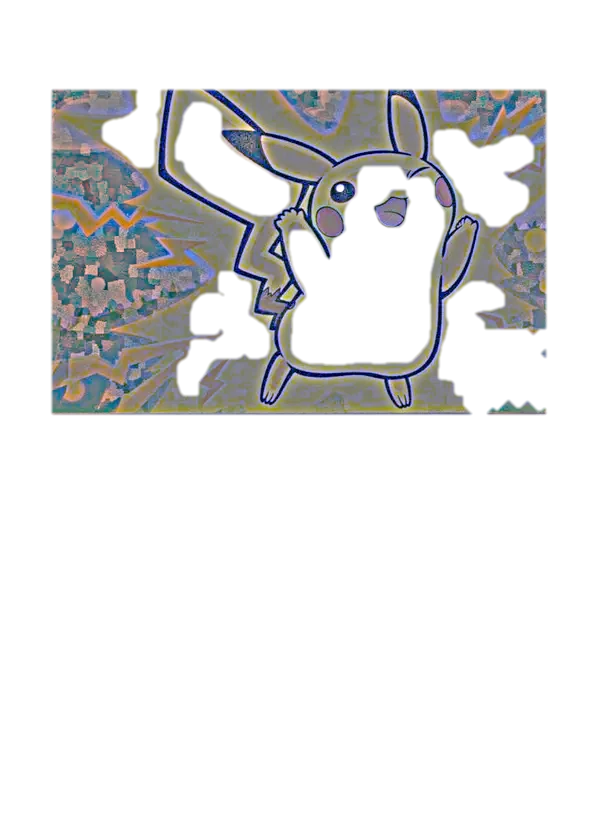
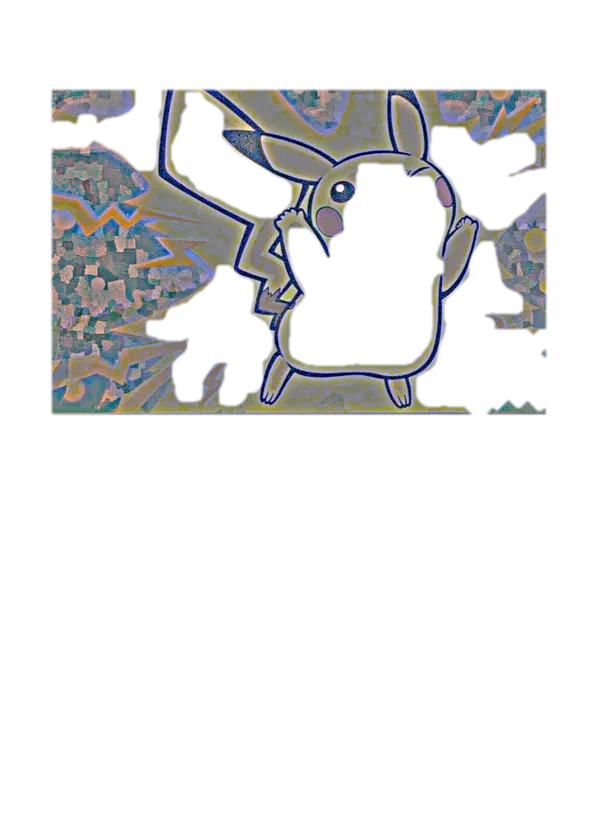
WIP mcd-promos holo family (in progress, not reviewed)
Snapshot of the family agent's work so far, so a container restart cannot
lose it. Not shipped; the family's final commit follows its review.

Claude-Session: https://claude.ai/code/session_01B8RJC6bhck4cqShRYgFuu1

diff --git a/.claude/skills/card-textures/scripts/fam/mcd-promos/make_mcd_maps.py b/.claude/skills/card-textures/scripts/fam/mcd-promos/make_mcd_maps.py
@@ -33,6 +33,9 @@ SETS = ["mcd11", "mcd12", "mcd14", "mcd15", "mcd16"]
 W, H = 600, 838
 # The art window in 600 x 838 scan pixels (measured on all 60 scans: left 48..51, right 547..558, top 74..90, bottom 414..421).
 WIN = (52, 90, 546, 414)  # x0, y0, x1, y1: kept a few pixels inside the real edge, the frame is never foil
+# Flat-colour art (yellow burst behind a yellow Pikachu): the chips are invisible there, so the relaxed threshold cuts the burst and the Pokemon into
+# patches. These cards take the strict threshold: foil only where the chips are plainly printed (the blue sky and green grass), a coherent cut.
+STRICT = {"mcd14-5", "mcd15-6"}
 # The "M" (golden arches) at the window's bottom right, on 2012 and 2014 cards only.
 M_BOX = {"mcd12": (470, 336, 548, 416), "mcd14": (470, 336, 548, 416)}
 
@@ -77,7 +80,7 @@ def foil_alpha(cid, a, rel, e):
     q8 = (q * 255).astype(np.uint8)
     med = cv2.medianBlur(q8, 15).astype(np.float32) / 255
     med = cv2.GaussianBlur(med, (0, 0), 2.0)
-    thr = otsu(med[win]) - float(os.environ.get('MCD_THR_OFFSET', '0.04'))
+    thr = otsu(med[win]) - (0.0 if cid in STRICT else float(os.environ.get('MCD_THR_OFFSET', '0.04')))
     chip = (med > thr) & win
     # fill small background holes, drop small chip islands (they sit inside the Pokemon)
     inv = (~chip) & win
@@ -111,6 +114,8 @@ def foil_alpha(cid, a, rel, e):
             if sz >= 0.10 * big or (sz >= 1500 and solid >= 0.72):
                 poke |= lab == i
     poke = ndi.binary_dilation(poke, structure=np.ones((3, 3)), iterations=5) & win
+    if cid in STRICT:
+        poke = ndi.binary_fill_holes(poke)
     # the "M": yellow arches in the bottom-right corner of 2012 and 2014 windows
     if s in M_BOX:
         mx0, my0, mx1, my1 = M_BOX[s]

diff --git a/.claude/skills/card-textures/reference/fam-mcd-promos.md b/.claude/skills/card-textures/reference/fam-mcd-promos.md
@@ -32,6 +32,8 @@ Older-era holo remaster (2026-10-02). 60 faces (12 each of mcd11, mcd12 on the B
 - Window foil-minus-bare should be about +20..30 levels at the lit poses; the Pokemon and M within a few levels of bare.
 
 ## What remains
+- Flat-colour art (yellow burst behind a yellow Pikachu: mcd14-5, mcd15-6) is on the STRICT threshold in make_mcd_maps.py: the relaxed one cut the
+  burst and the Pokemon into camouflage patches. mcd15-6's head and ears are still partly foiled.
 - Pale chip patches next to a pale Pokemon (Klink's clouds, Oshawott's splash, Torchic's silver wisps, Staryu's silver) are read as
   chip-free and get no foil: a fix is the diff against the set print (registered, see the scratch `proto_diff2.py`) in place of the energy mask.
 - The M box and window rectangle are fixed; a few cards (2012 evolution frames) may cut a few pixels of foil at the window corner.
